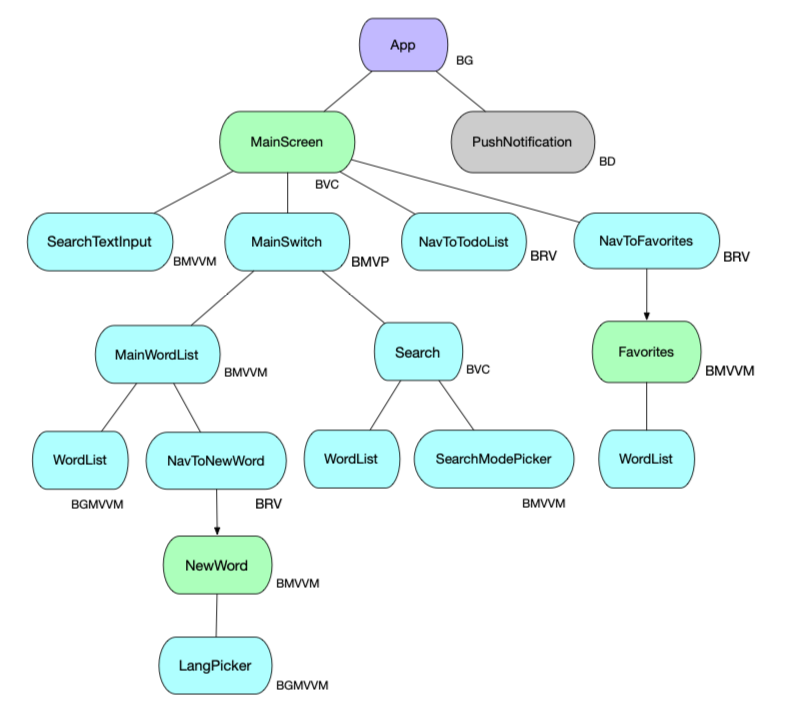
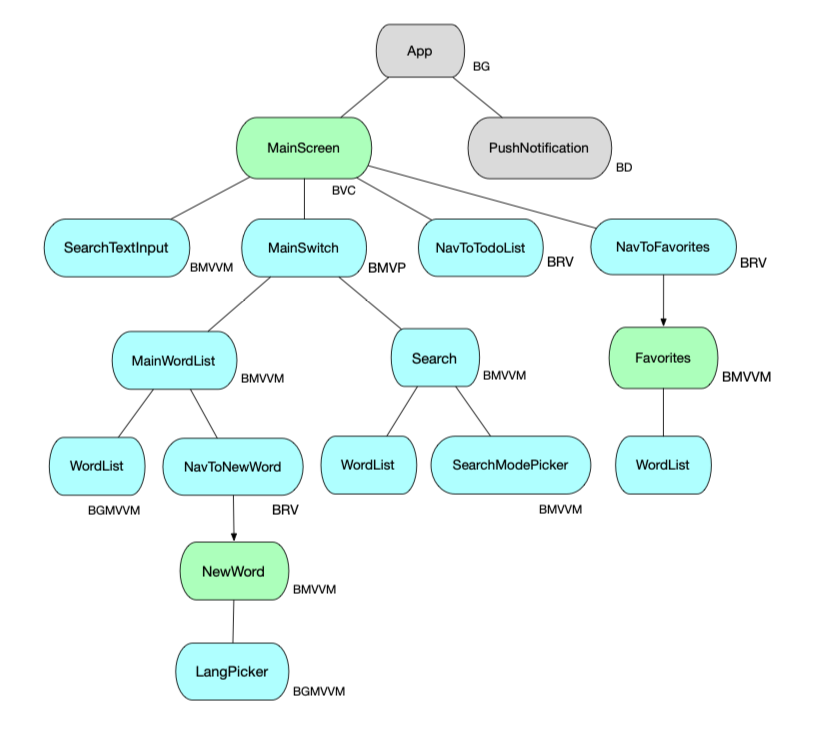
[TZ-56]: PersonalDictionary review.

diff --git a/AppModules/PersonalDictionary/Source/UIFeature/PartScreen/SearchTextInput/View/SearchTextInputView.swift b/AppModules/PersonalDictionary/Source/UIFeature/PartScreen/SearchTextInput/View/SearchTextInputView.swift
@@ -8,7 +8,7 @@
 import CoreModule
 import UIKit
 
-final class SearchControllerImpl: UISearchController, UISearchResultsUpdating, UISearchControllerDelegate {
+final class SearchTextInputView: UISearchController, UISearchResultsUpdating, UISearchControllerDelegate {
 
     private let viewModel: SearchTextInputViewModel
     private let logger: SLogger
@@ -40,13 +40,25 @@ final class SearchControllerImpl: UISearchController, UISearchResultsUpdating, U
     // MARK: - UISearchControllerDelegate
 
     func willDismissSearchController(_ searchController: UISearchController) {
-        logger.log("User is dismissing search.")
+        logger.log("User will dismiss search.")
+
+        viewModel.mainScreenState.accept(.empty)
+    }
+
+    func didDismissSearchController(_ searchController: UISearchController) {
+        logger.log("User did dismiss search.")
 
         viewModel.mainScreenState.accept(.main)
     }
 
     func willPresentSearchController(_ searchController: UISearchController) {
-        logger.log("User is presenting search.")
+        logger.log("User will present search.")
+
+        viewModel.mainScreenState.accept(.empty)
+    }
+
+    func didPresentSearchController(_ searchController: UISearchController) {
+        logger.log("User did present search.")
 
         viewModel.mainScreenState.accept(.search)
     }

diff --git a/AppModules/PersonalDictionary/Source/UIFeature/PartScreen/Search/View/SearchViewController.swift b/AppModules/PersonalDictionary/Source/UIFeature/PartScreen/Search/View/SearchViewController.swift
@@ -11,15 +11,10 @@ import UIKit
 final class SearchViewController: UIViewController {
 
     private let viewModel: SearchViewModel
-
     private let searchModePickerView: UIView
-
     private let wordListGraph: WordListGraph
-
     private let centerLabel: UILabel
-
-    private let topOffset: CGFloat = 46
-
+    private let searchModePickerViewHeight: CGFloat = 46
     private let disposeBag = DisposeBag()
 
     /// - Parameters:
@@ -66,7 +61,7 @@ final class SearchViewController: UIViewController {
 
     private func initViews() {
         initSearchModePicker()
-        layout(wordListView: wordListGraph.view, topOffset: topOffset)
+        layout(wordListView: wordListGraph.view, topOffset: searchModePickerViewHeight)
         layout(centerLabel: centerLabel)
     }
 
@@ -76,7 +71,7 @@ final class SearchViewController: UIViewController {
             make.top.equalTo(view.safeAreaLayoutGuide.snp.top)
             make.left.equalTo(view.safeAreaLayoutGuide.snp.left)
             make.right.equalTo(view.safeAreaLayoutGuide.snp.right)
-            make.height.equalTo(topOffset)
+            make.height.equalTo(searchModePickerViewHeight)
         }
     }
 }

diff --git a/AppModules/PersonalDictionary/Source/UIFeature/FullScreen/MainScreen/ViewController/MainScreen.swift b/AppModules/PersonalDictionary/Source/UIFeature/FullScreen/MainScreen/ViewController/MainScreen.swift
@@ -11,7 +11,7 @@ import UIKit
 final class MainScreen: UIViewController {
 
     private let mainSwitchViewController: UIViewController
-    private let searchController: UISearchController
+    private let searchTextInput: UISearchController
     private let navToFavoritesBuilder: ViewBuilder
     private let navToTodoListBuilder: ViewBuilder
     private let theme: Theme
@@ -25,7 +25,7 @@ final class MainScreen: UIViewController {
         theme: Theme
     ) {
         self.mainSwitchViewController = mainSwitchBuilder.build()
-        self.searchController = searchTextInputBuilder.build()
+        self.searchTextInput = searchTextInputBuilder.build()
         self.navToFavoritesBuilder = navToFavoritesBuilder
         self.navToTodoListBuilder = navToTodoListBuilder
         self.theme = theme
@@ -50,7 +50,7 @@ final class MainScreen: UIViewController {
 
     override func viewWillLayoutSubviews() {
         super.viewWillLayoutSubviews()
-        navigationItem.searchController = searchController
+        navigationItem.searchController = searchTextInput
     }
 
     // MARK: - Private

diff --git a/AppModules/PersonalDictionary/Source/UIFeature/PartScreen/MainSwitch/View/MainSwitchViewController.swift b/AppModules/PersonalDictionary/Source/UIFeature/PartScreen/MainSwitch/View/MainSwitchViewController.swift
@@ -27,6 +27,8 @@ final class MainSwitchViewController: UIViewController, MainSwitchView {
             layout(childViewController: mainWordListViewController)
         case .search:
             layout(childViewController: searchViewController)
+        case .empty:
+            break
         }
     }
 
@@ -37,11 +39,12 @@ final class MainSwitchViewController: UIViewController, MainSwitchView {
     func update(_ state: MainScreenState) {
         switch state {
         case .main:
-            searchViewController.removeFromParentViewController()
             layout(childViewController: mainWordListViewController)
         case .search:
-            mainWordListViewController.removeFromParentViewController()
             layout(childViewController: searchViewController)
+        case .empty:
+            mainWordListViewController.removeFromParentViewController()
+            searchViewController.removeFromParentViewController()
         }
     }
 }

diff --git a/AppModules/PersonalDictionary/Source/UIFeature/PartScreen/SearchTextInput/Builder/SearchTextInputBuilder.swift b/AppModules/PersonalDictionary/Source/UIFeature/PartScreen/SearchTextInput/Builder/SearchTextInputBuilder.swift
@@ -24,13 +24,13 @@ final class SearchTextInputBuilder: SearchControllerBuilder {
             mainScreenStateStream: MainScreenStateStreamImpl.instance,
             logger: logger()
         )
-        let searchController = SearchControllerImpl(
+        let view = SearchTextInputView(
             viewModel: viewModel,
             placeholder: bundle.moduleLocalizedString("LS_SEARCH"),
             logger: logger()
         )
 
-        return searchController
+        return view
     }
 
     private func logger() -> SLogger {

diff --git a/AppModules/PersonalDictionary/Source/ModelStream/MainScreenStateStream.swift b/AppModules/PersonalDictionary/Source/ModelStream/MainScreenStateStream.swift
@@ -7,7 +7,7 @@
 
 import RxSwift
 
-enum MainScreenState { case main, search }
+enum MainScreenState { case main, search, empty }
 
 protocol MainScreenStateStream {
 
